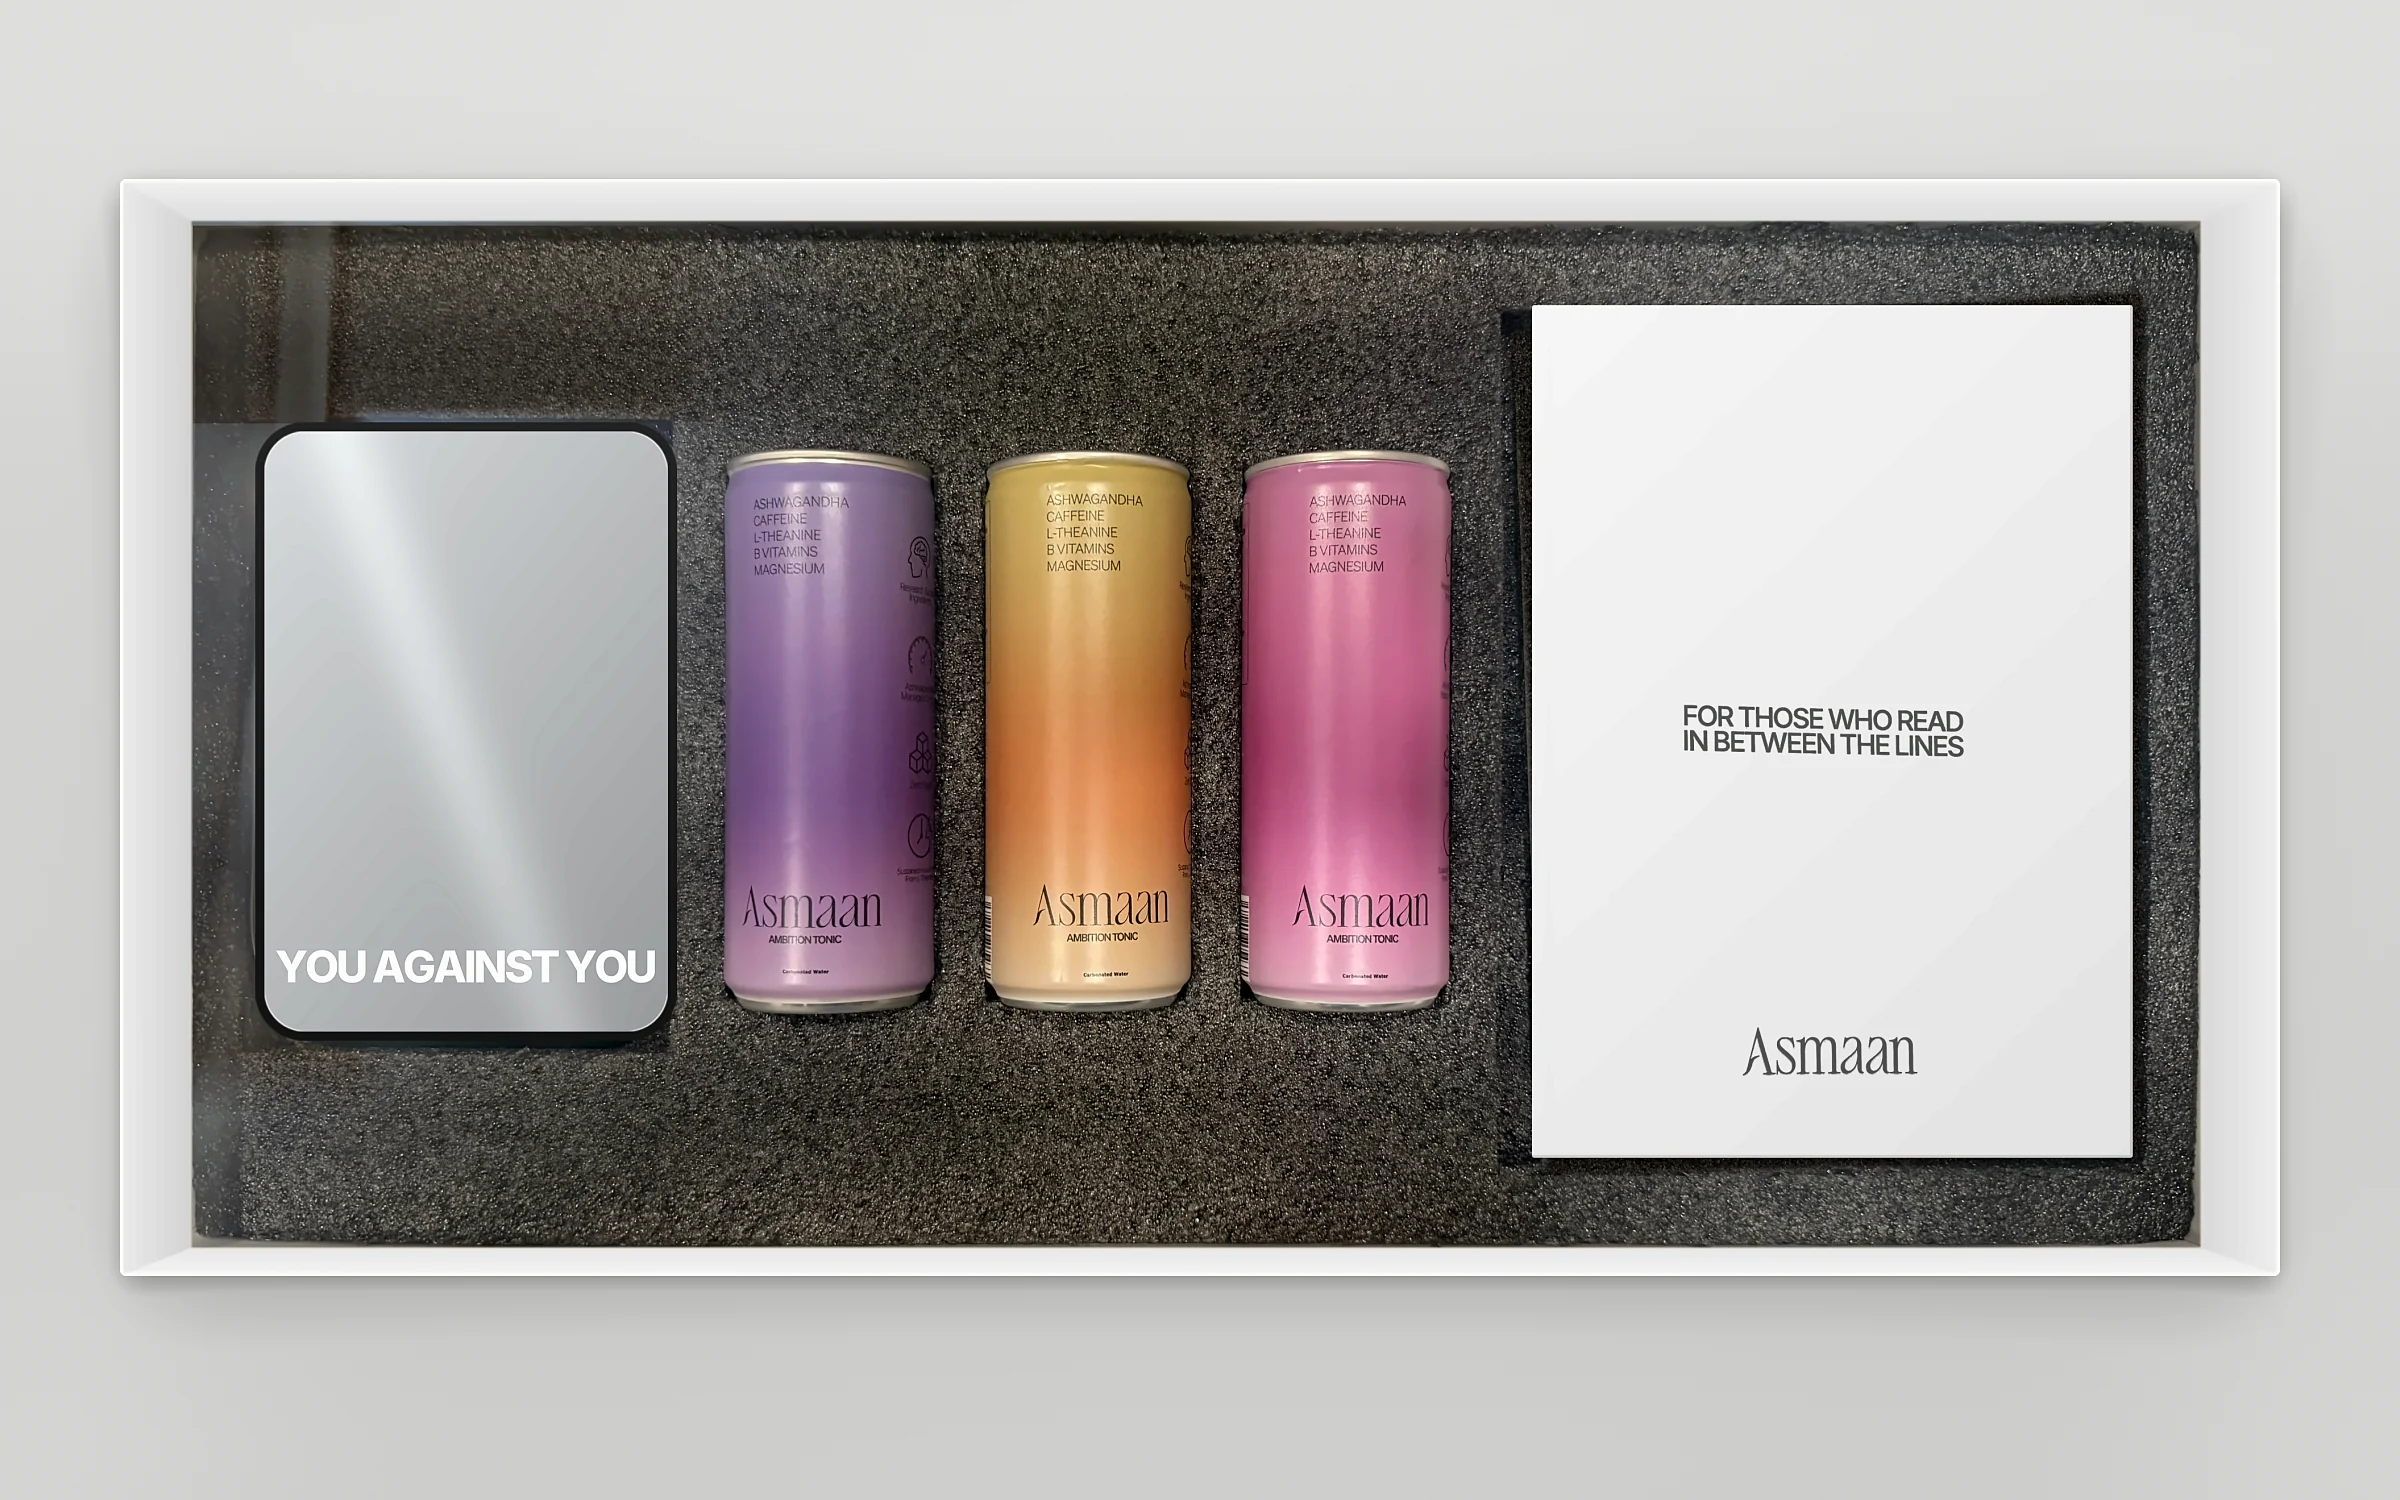
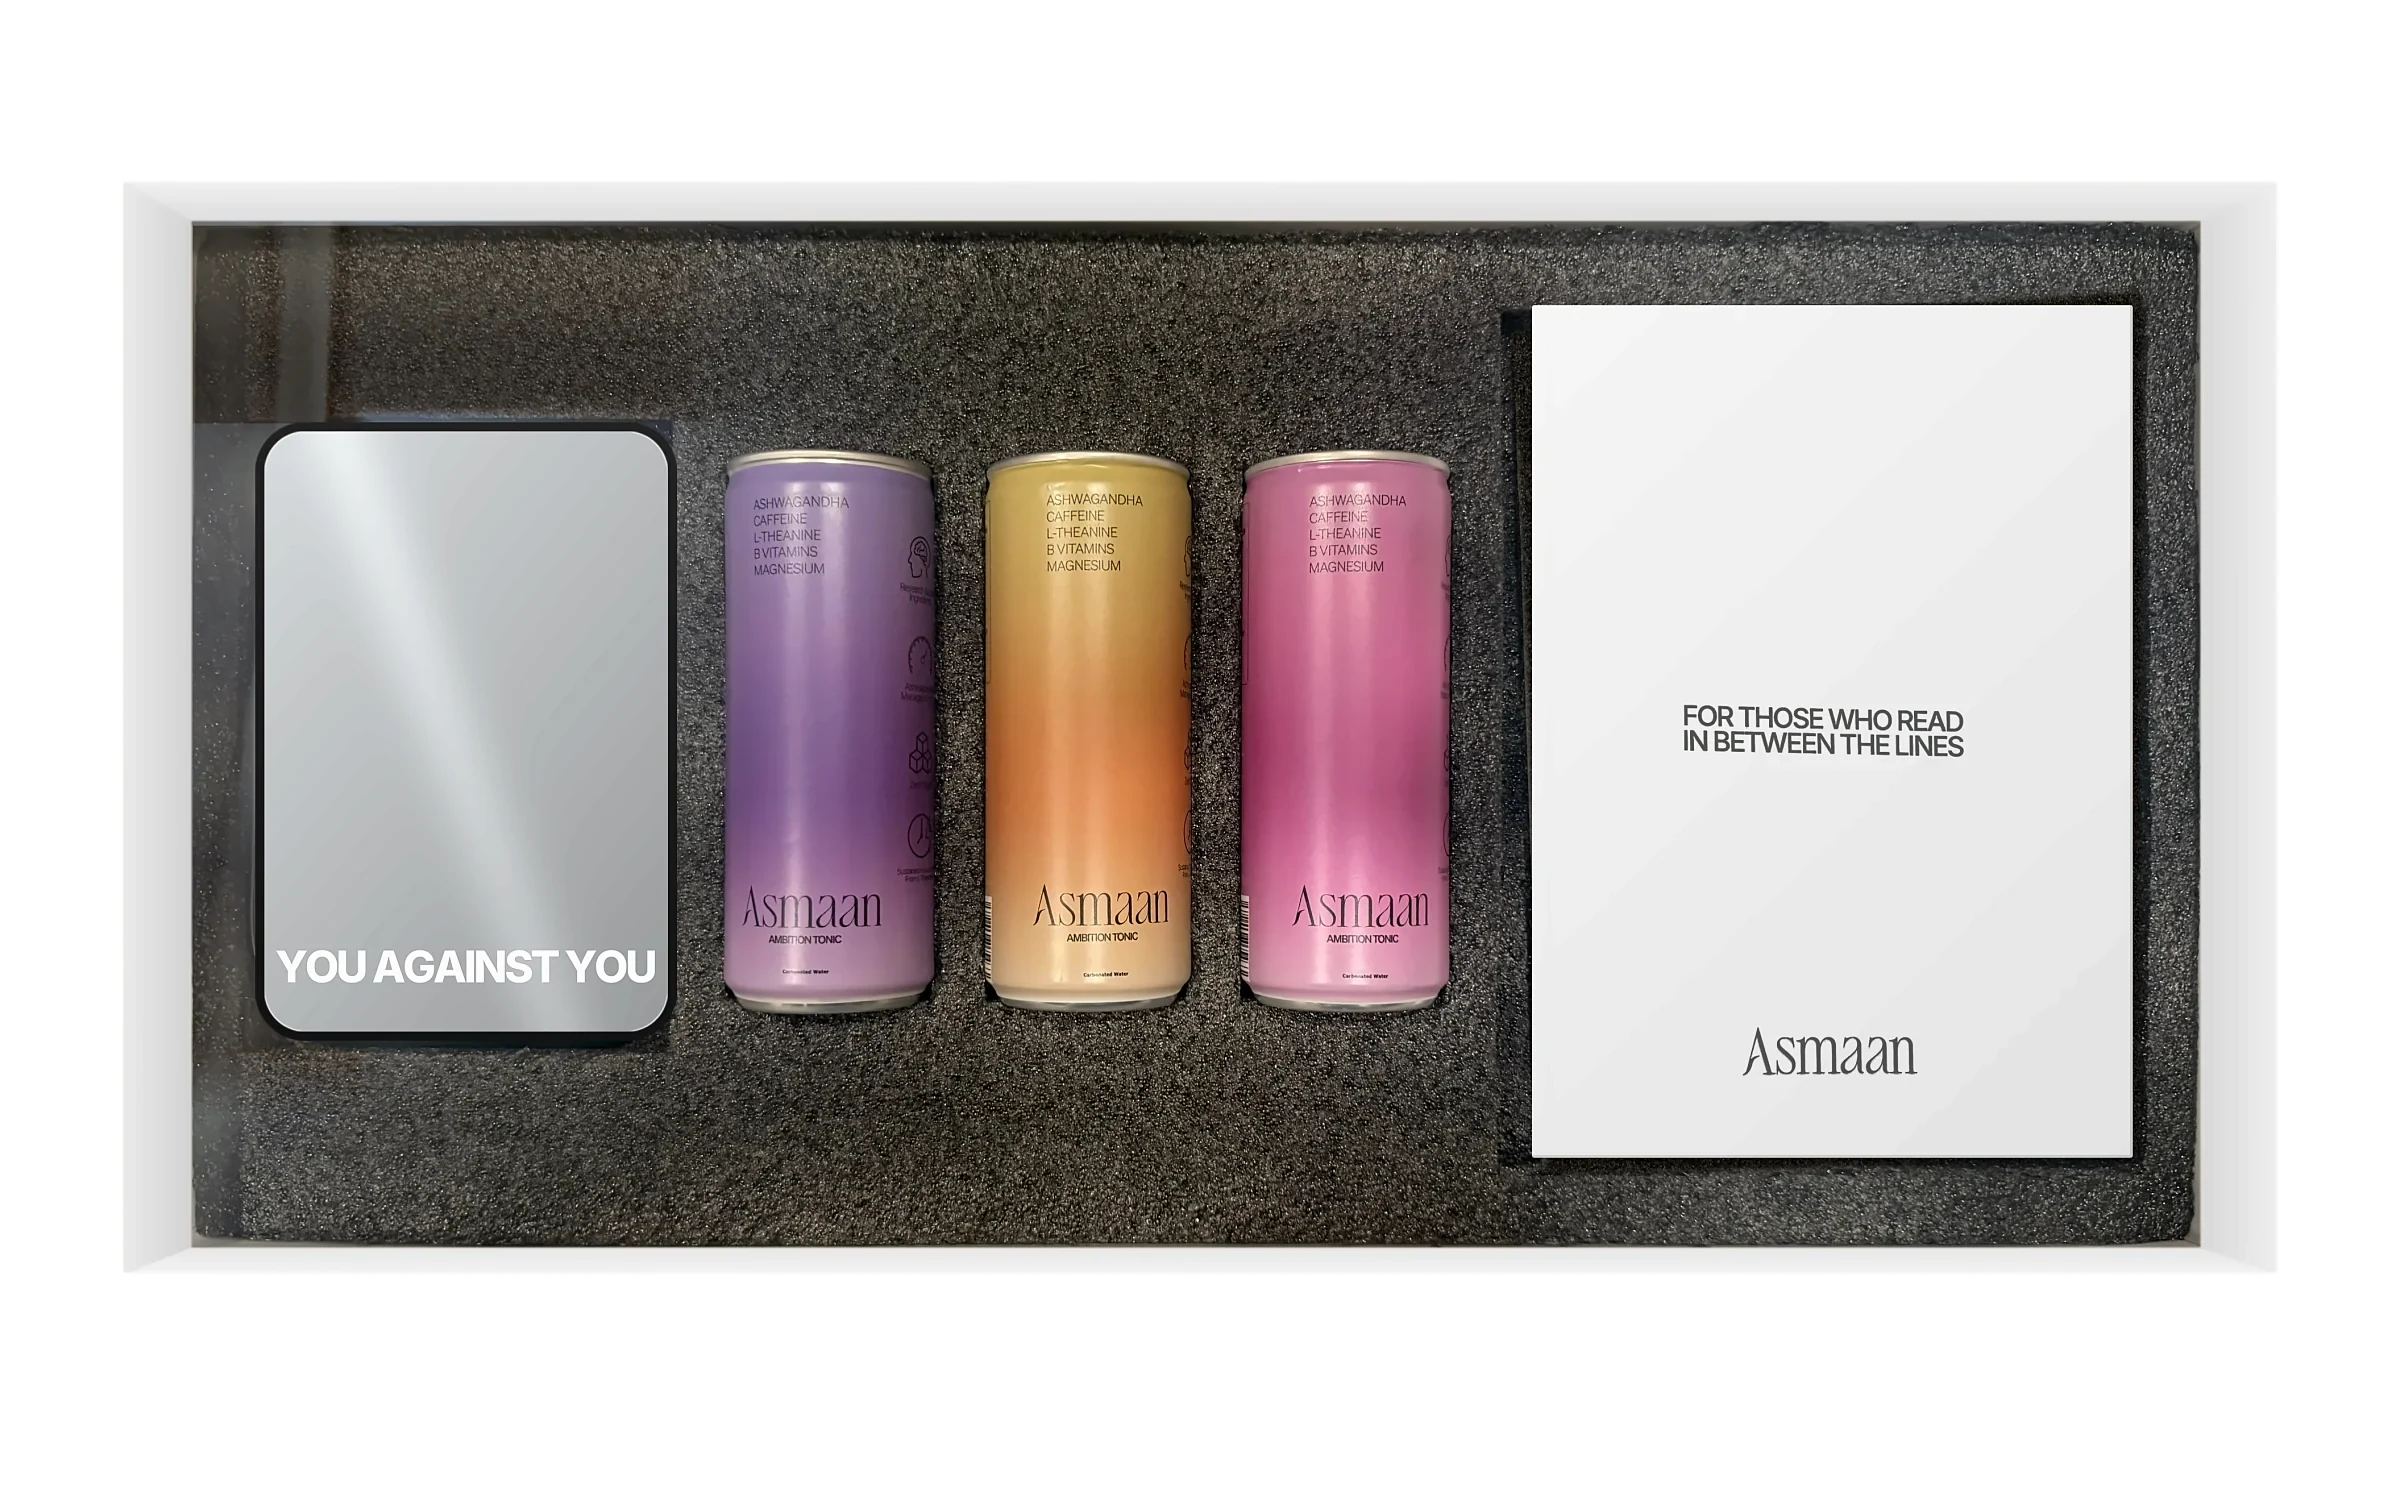
Ambition Box page: cut the studio backdrop out of the open-box and mirror photos, drop the grey frame background
Claude-Session: https://claude.ai/code/session_01Ya8hxsHqR7aqKDGAY3tbgn

diff --git a/assets/asmaan-presale.css b/assets/asmaan-presale.css
@@ -114,7 +114,7 @@
   position: relative;
   aspect-ratio: 16 / 10;
   overflow: hidden;
-  background: #e4e4e2;
+  background: transparent;
 }
 .psb_frame img {
   position: absolute;
@@ -123,6 +123,10 @@
   height: 100%;
   object-fit: cover;
 }
+/* The photos are cut out (transparent backdrop); a soft shadow grounds them on the night sky. */
+.psb_open { filter: drop-shadow(0 26px 36px rgba(0, 0, 0, 0.5)); }
+.psb_photo--mirror img { filter: drop-shadow(0 26px 40px rgba(0, 0, 0, 0.5)); }
+
 /* The lid is the shut box alone on transparency (its shadow included), so only the box lifts. */
 .psb_lid {
   transform: translate3d(0, calc(var(--lift, 0) * -100%), 0);
